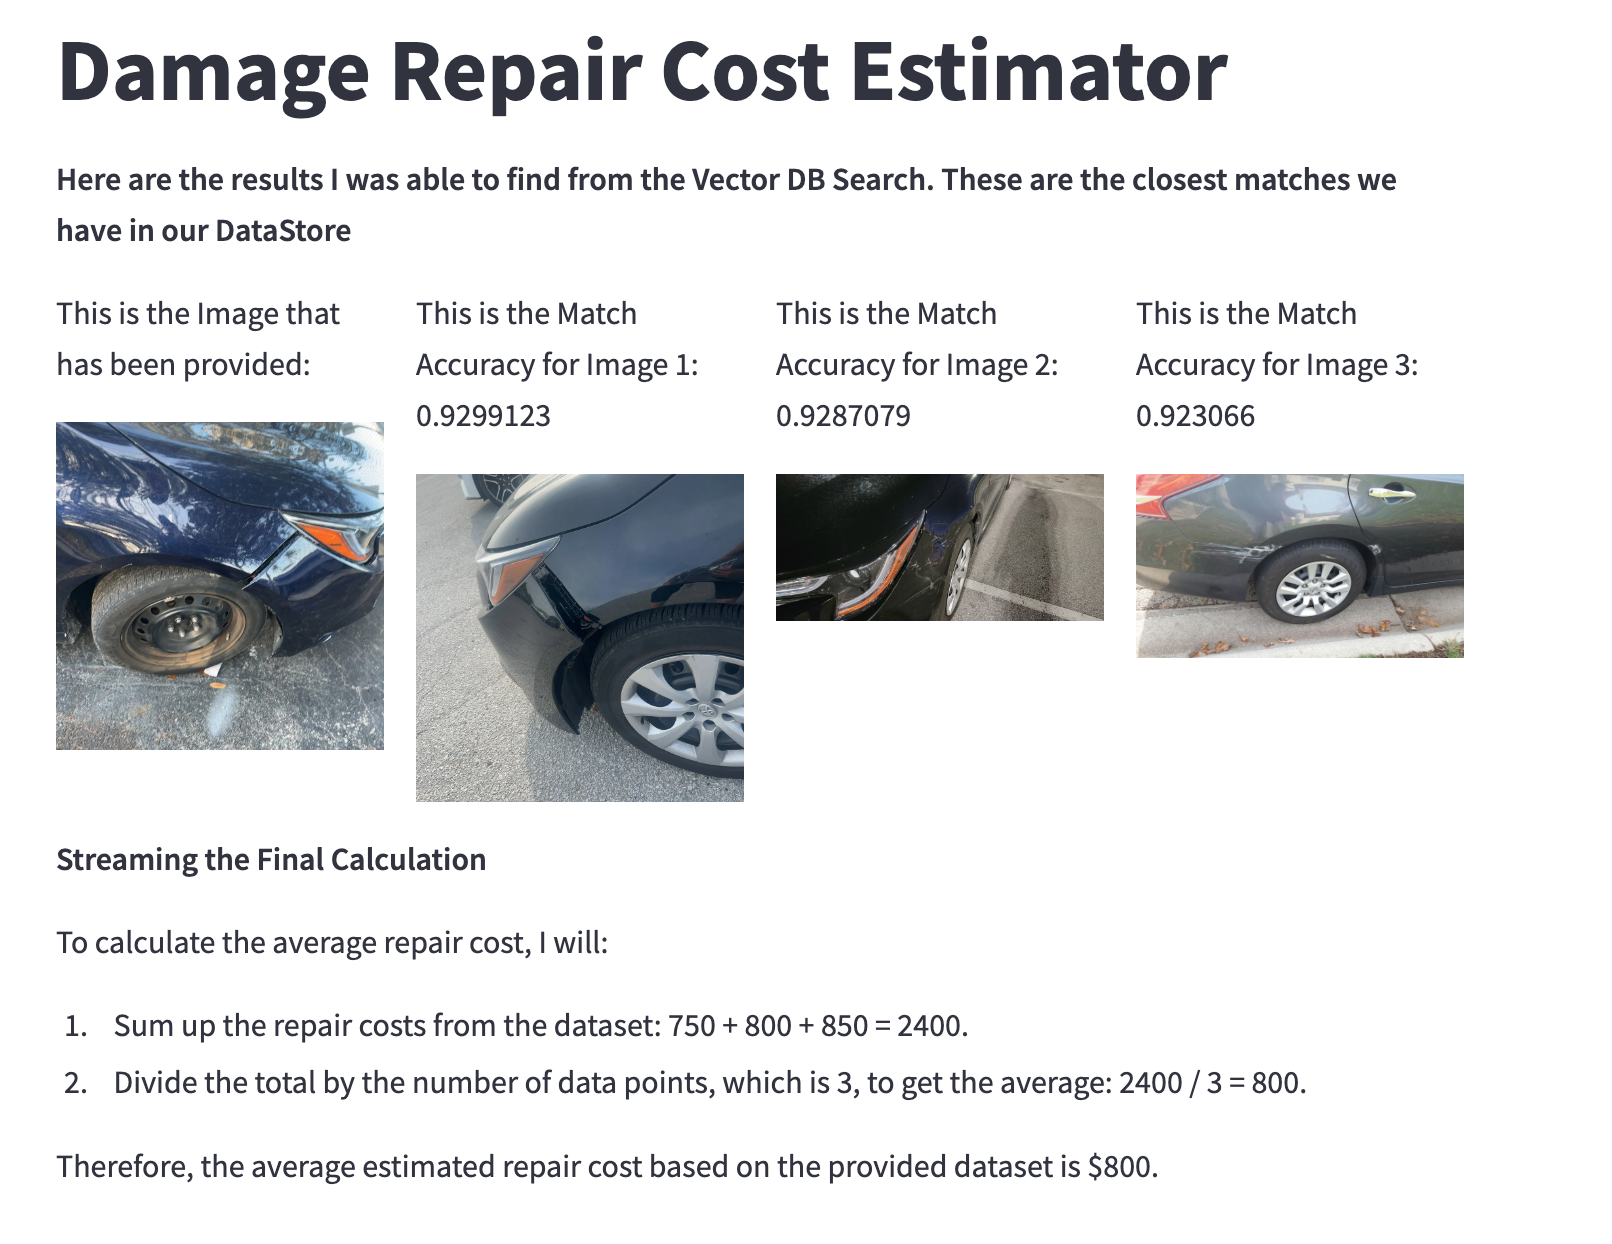
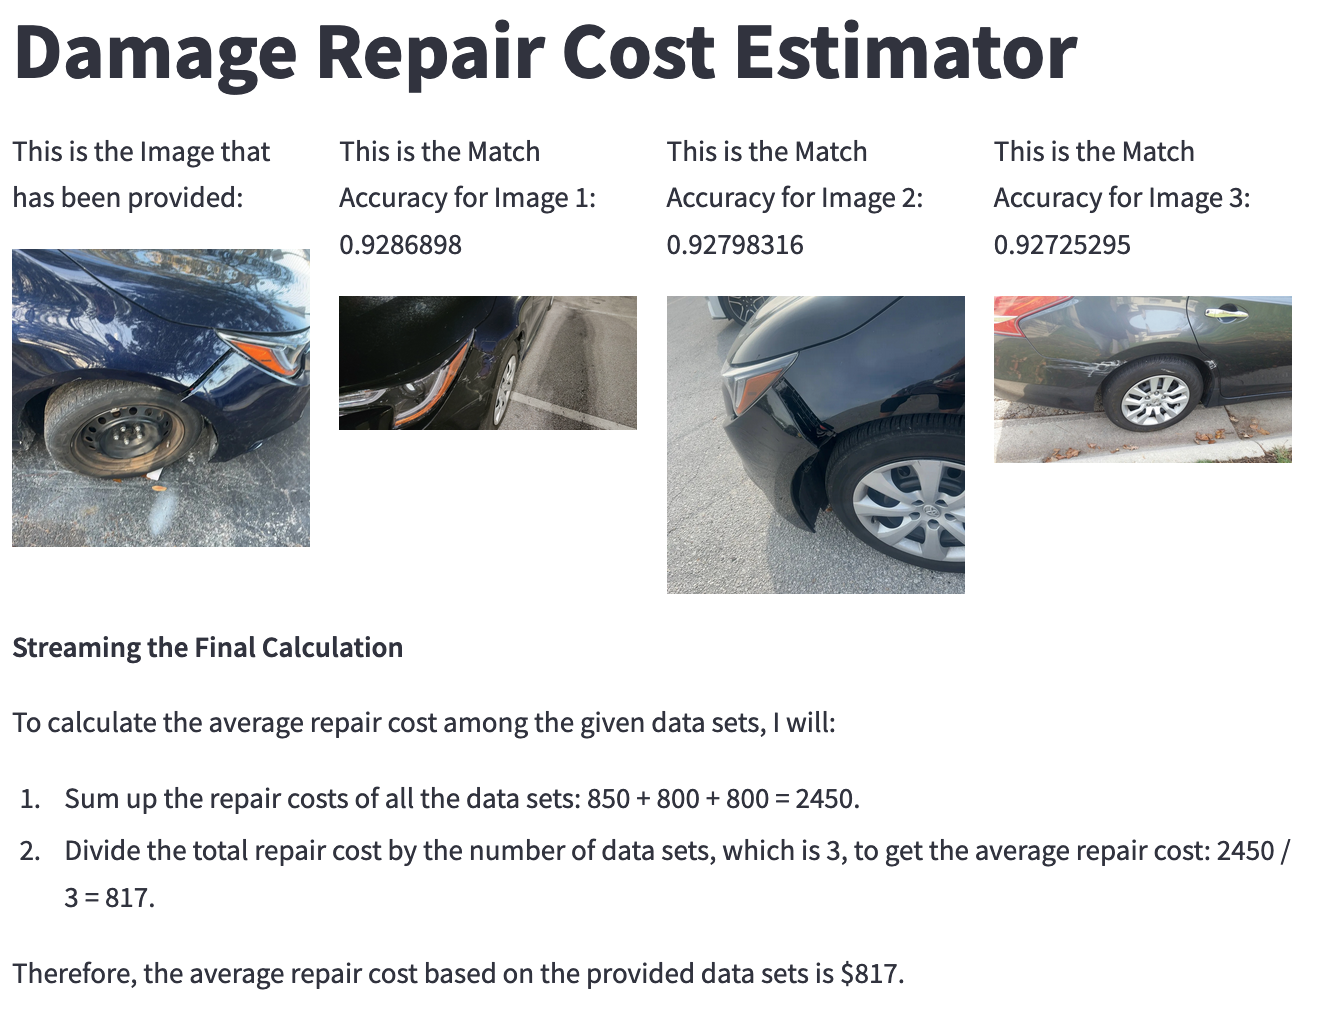
fix tests

diff --git a/README.md b/README.md
@@ -102,7 +102,7 @@ In this example, we can see it found the closest 3 matches, and by order of accu
 
 ![Test2_Results](/static_assets/Test2_Results.png)
 
-3. The results we got are 0.928969, 0.92857015, 0.92395175, and the images in these results are quite close to the real damage we are assessing.
+3. The results we got are 0.9286898, 0.92798316, 0.92725295, and the images in these results are close to the real damage we are assessing.
 
 4. Now let's play around with the parameters. Refresh your page, choose the same make and model, and the following parameters:
 - Damage Area: Front Right and Passenger Side
@@ -111,6 +111,6 @@ In this example, we can see it found the closest 3 matches, and by order of accu
 
 ![Test2_Results](/static_assets/Test2_more_accurate.png)
 
-5. The new results are 0.92993426, 0.92886454, 0.92356765. The accuracy increased on all 3 matches because the metadata using the new parameters is closest to the ones that were stored in the ingestion process, and therefore the vector is a closer match.
+5. The new results are 0.92886454, 0.9279658, 0.9271643. The accuracy changed on all 3 matches because the metadata using the new parameters influences the vector matches, this means that any modification on the input will influence the results.
 
 6. Under the image upload button, there will be the JSON metadata created by Claude for the metadata stored in OpenSearch alongside the vector. We can use that to compare how the images were ingested and how close the metadatas are.
